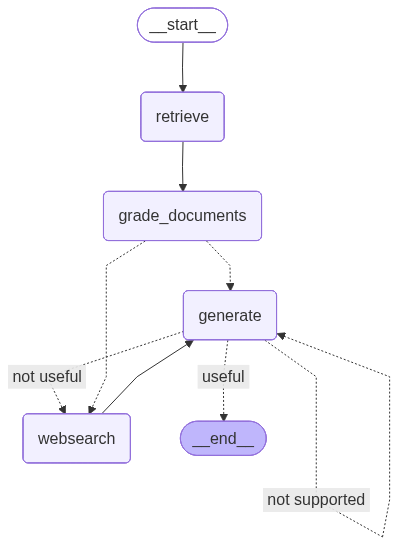
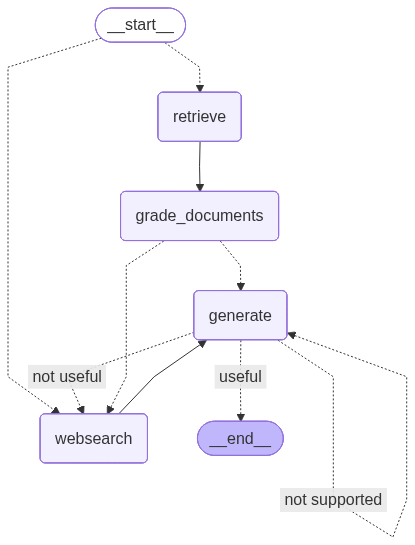
Adaptative RAG implementado

diff --git a/graph/graph.py b/graph/graph.py
@@ -2,6 +2,7 @@ from dotenv import load_dotenv
 from langgraph.graph import StateGraph, END
 from graph.chain.hallucination_grader import hallucination_grader
 from graph.chain.answer_grader import answer_grader
+from graph.chain.router import RouteQuery, question_router
 from graph.const import GENERATE, GRADE_DOCUMENTS, RETRIEVE, WEBSEARCH
 from graph.nodes import generate, grade_documents, retrieve, web_search
 from graph.state import GraphState
@@ -41,6 +42,17 @@ def grade_generation_grounded_in_documents_and_questions(state: GraphState) -> s
     else:
         print("---DECISION: GENERATION IS NOT GROUNDED IN DOCUMENTS, RE-TRY---")
         return "not supported"
+    
+def route_question(state: GraphState) -> str:
+    print("---ROUTING QUESTION---")
+    question = state["question"]
+    source: RouteQuery = question_router.invoke({"question": question})
+    if source.datasource == WEBSEARCH:
+        print("---ROUTE QUESTION TO WEB SEARCH---")
+        return WEBSEARCH
+    elif source.datasource == "vectorstore":
+        print("---ROUTE QUESTION TO RAG---")
+        return RETRIEVE
 
 workflow = StateGraph(GraphState)
 
@@ -48,6 +60,11 @@ workflow.add_node(RETRIEVE, retrieve)
 workflow.add_node(GRADE_DOCUMENTS, grade_documents)
 workflow.add_node(GENERATE, generate)
 workflow.add_node(WEBSEARCH, web_search)
+
+workflow.set_conditional_entry_point(
+    route_question,
+    {WEBSEARCH: WEBSEARCH, RETRIEVE: RETRIEVE},
+)
 
 workflow.set_entry_point(RETRIEVE)
 workflow.add_edge(RETRIEVE, GRADE_DOCUMENTS)

diff --git a/graph/chain/router.py b/graph/chain/router.py
@@ -1,0 +1,31 @@
+from dotenv import load_dotenv
+from typing import Literal
+from langchain_core.prompts import ChatPromptTemplate
+from pydantic import BaseModel, Field
+from langchain_google_genai import ChatGoogleGenerativeAI
+
+load_dotenv()
+
+
+class RouteQuery(BaseModel):
+    """Route a user query to the most relevant datasource."""
+
+    datasource: Literal["vectorstore", "websearch"] = Field(
+        ...,
+        description="Given a user question choose to route it to web search or a vectorstore.",
+    )
+
+
+llm = ChatGoogleGenerativeAI(model="gemini-2.5-flash", temperature=0)
+structured_llm_router = llm.with_structured_output(RouteQuery)
+
+system = """You are an expert at routing a user question to a vectorstore or web search.
+The vectorstore contains documents related to agents, prompt engineering, and adversarial attacks.
+Use the vectorstore for questions on these topics. For all else, use web-search."""
+route_prompt = ChatPromptTemplate.from_messages(
+    [
+        ("system", system),
+        ("human", "{question}"),
+    ]
+)
+question_router = route_prompt | structured_llm_router

diff --git a/graph/chain/tests/test_chains.py b/graph/chain/tests/test_chains.py
@@ -3,7 +3,8 @@ from dotenv import load_dotenv
 from graph.chain.generation import generation_chain
 from graph.chain.hallucination_grader import (GradeHallucinations, hallucination_grader)
 from graph.chain.retrieval_grader import GradeDocuments, retrieval_grader
-# from graph.chain.router import RouteQuery, question_router
+from graph.chain.router import RouteQuery, question_router
+from graph.chain.router import RouteQuery
 from ingestion import retriever
 
 load_dotenv()
@@ -61,3 +62,16 @@ def test_hallucination_grader_answer_no() -> None:
         }
     )
     assert not res.binary_score
+
+def test_router_to_vectorstore() -> None:
+    question = "agent memory"
+
+    res: RouteQuery = question_router.invoke({"question": question})
+    assert res.datasource == "vectorstore"
+
+
+def test_router_to_websearch() -> None:
+    question = "how to make pizza"
+
+    res: RouteQuery = question_router.invoke({"question": question})
+    assert res.datasource == "websearch"
